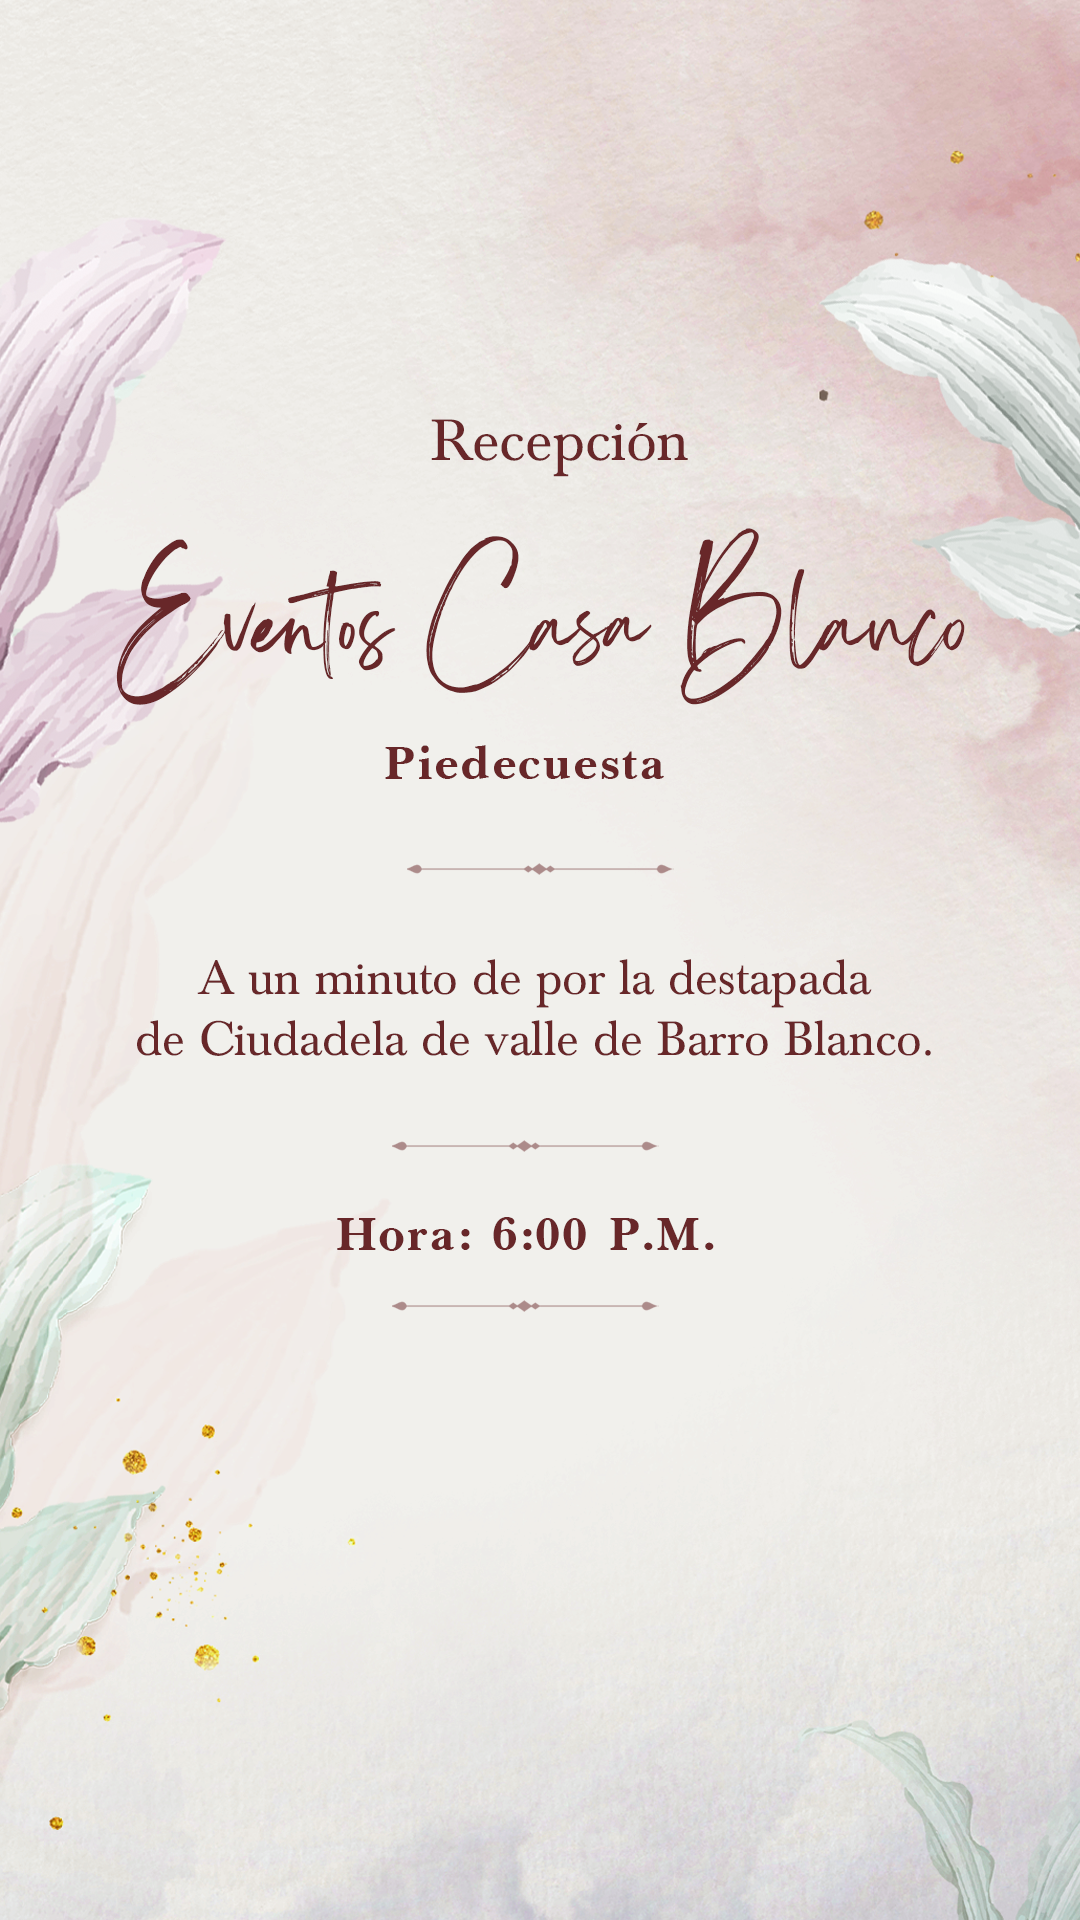
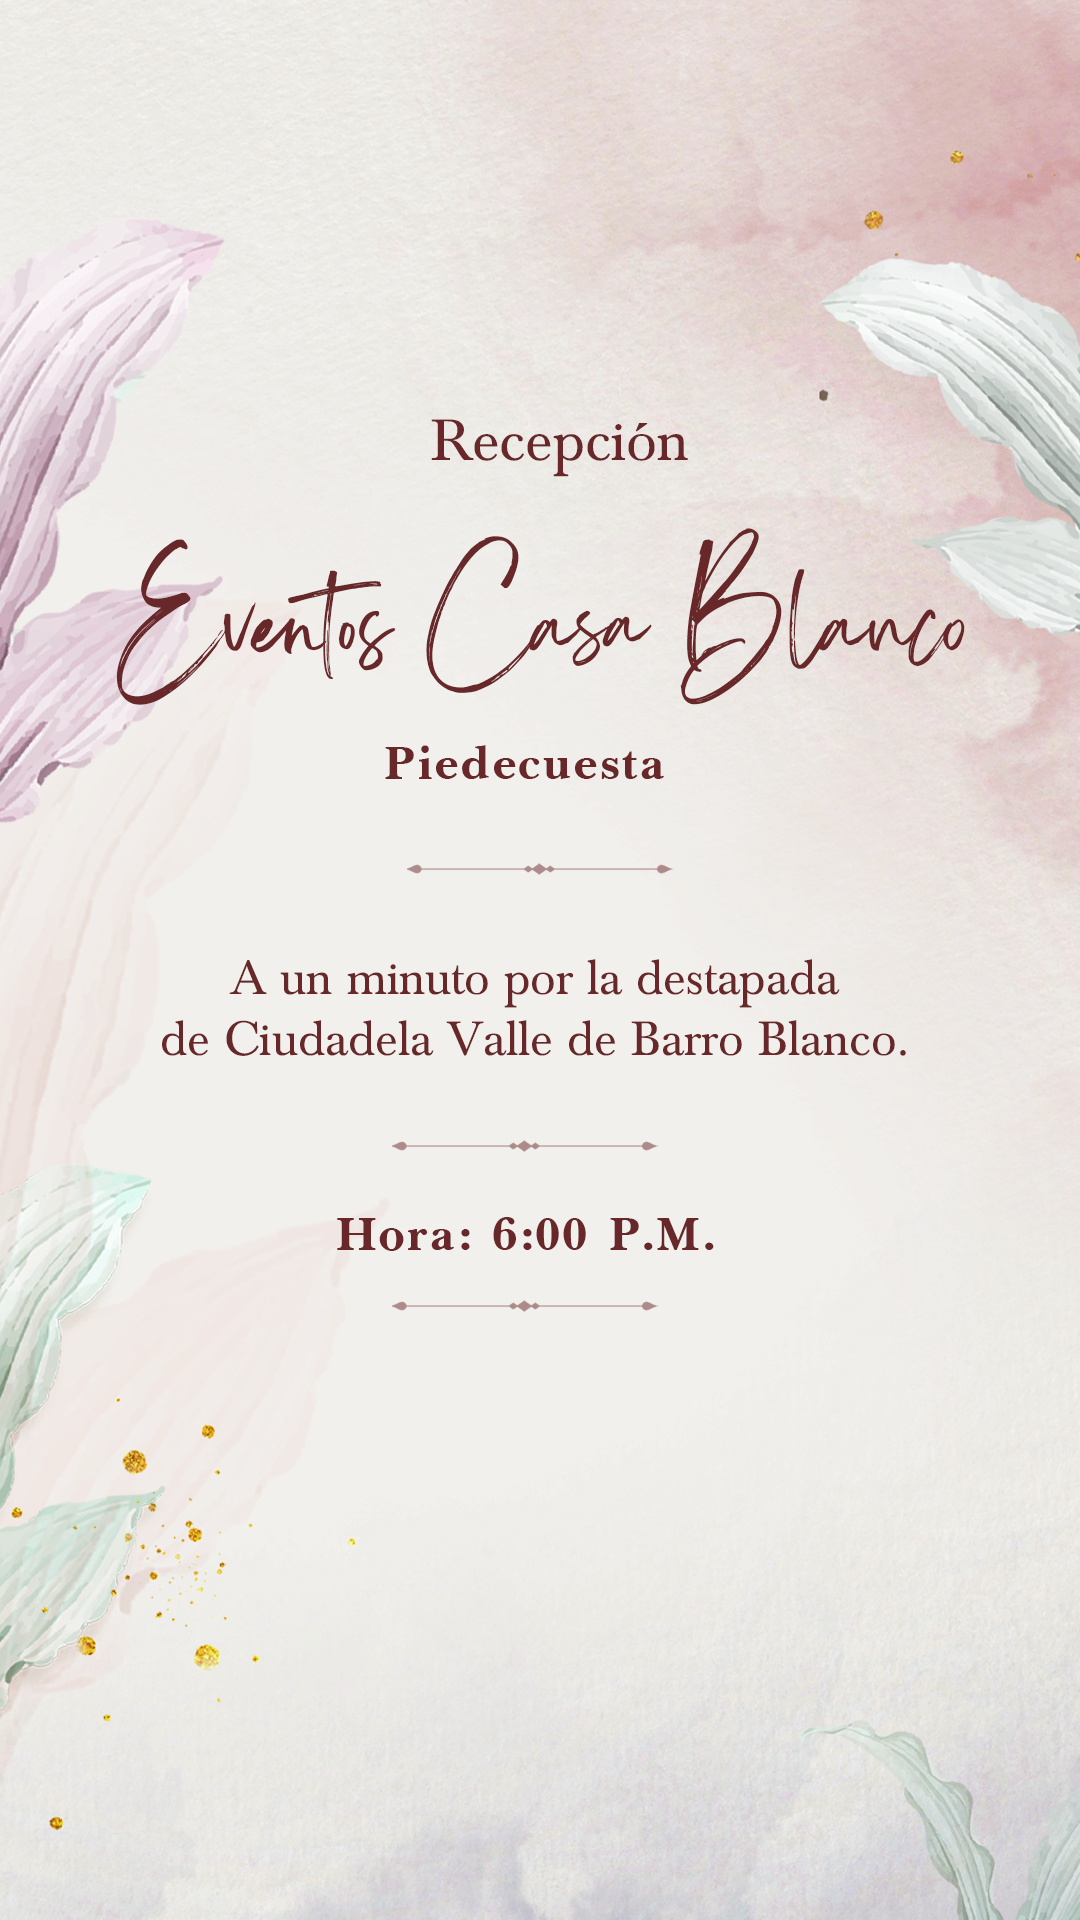
mensaje de lo que cambio

Changed region(s): [[0.1222, 0.5, 0.8556, 0.5625]]

diff --git a/DANNA/css/styles.css b/DANNA/css/styles.css
@@ -167,7 +167,7 @@ button {
     letter-spacing: .04em
 	
   color: #fff; /* Color del texto principal */
-  text-shadow: 0 0 5px #fff, 0 0 5px #fff, 0 0 5px #fff; /* Efecto neón */
+  text-shadow: 0 0 5px #fff, 0 0 5px #fff, 0 0 5px #fff; /* Efecto neÃ³n */
 }
 
 		
@@ -288,7 +288,7 @@ button {
 }
 .section-icon2 {
     width: clamp(200px,18vw,92px);
-    height: clamp(10px,18vw,92px);
+    /* height: clamp(10px,18vw,92px); */
     margin-bottom: 4rem;
     filter: drop-shadow(0 12px 20px rgba(0,0,0,.2));
 }